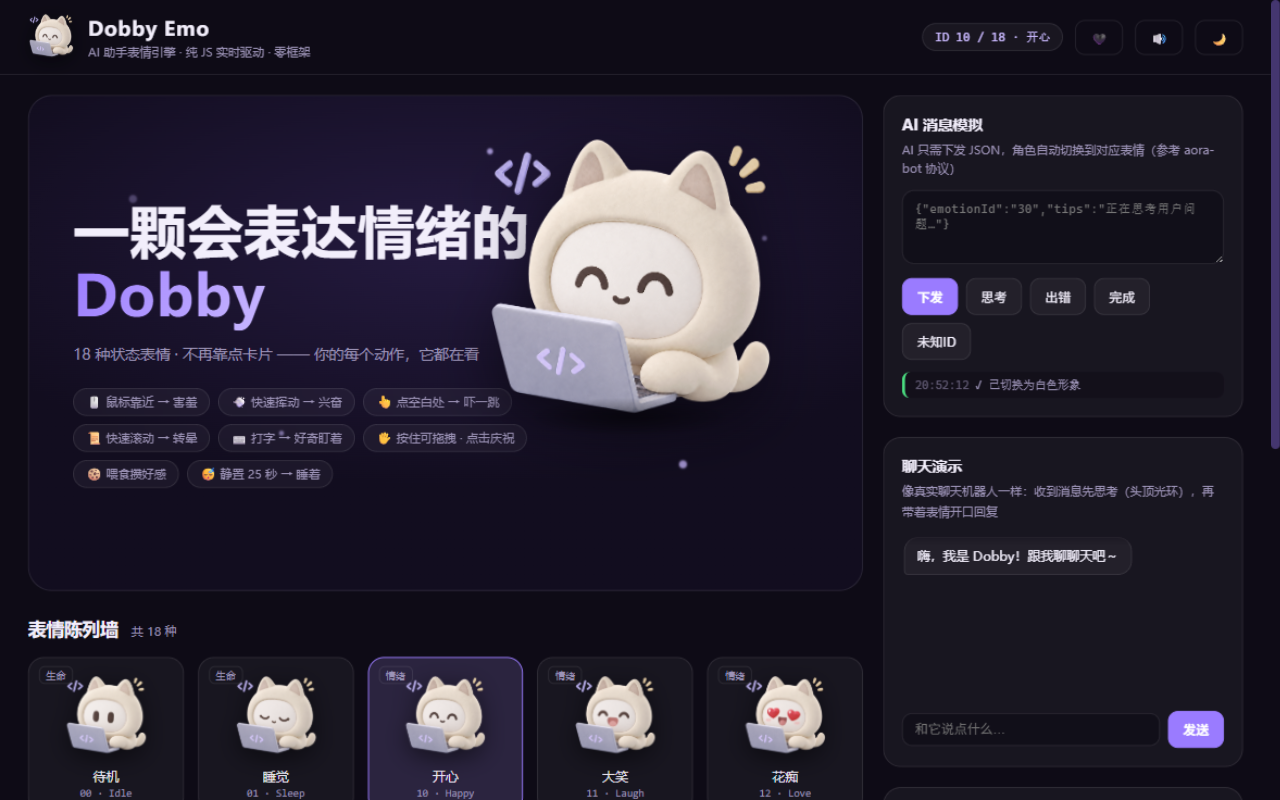
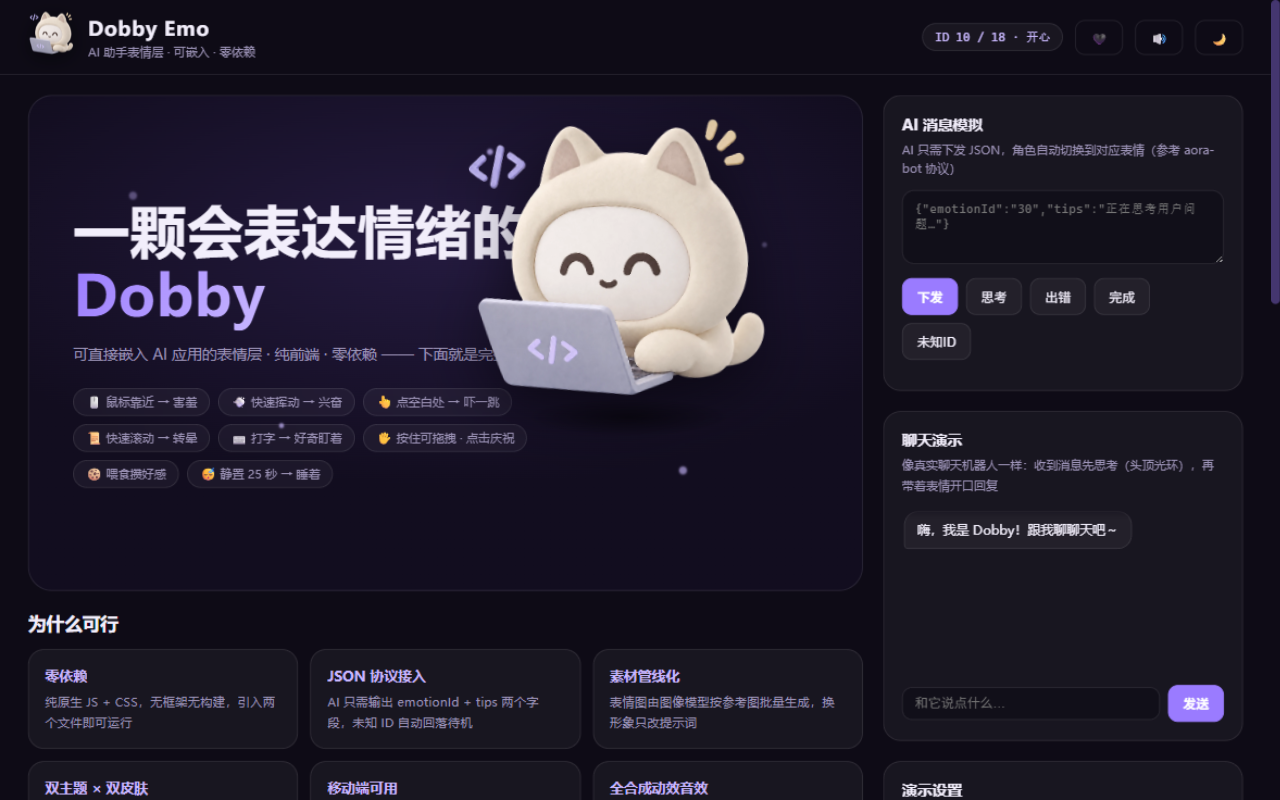
README 全面刷新（WebP/移动端/兼容性/接入示例/目录结构）+ MIT 开源协议（素材单列豁免）+ 更新双皮肤截图

diff --git a/README.md b/README.md
@@ -1,13 +1,15 @@
 # Dobby Emo · 会表达情绪的小助手
 
-一套面向 AI 助手的**桌面宠物级表情引擎**：一只抱着电脑的 3D 小猫 Dobby 悬浮在页面上，18 种状态表情，眼神会追着你的鼠标走，情绪从你的每个动作里"长"出来——而不是靠点卡片换图。
+一套面向 AI 助手的**可嵌入表情层方案**：一只抱着电脑的 3D 小猫 Dobby 悬浮在页面上，18 种状态表情，眼神会追着你的鼠标走，情绪从你的每个动作里"长"出来——而不是靠点卡片换图。纯前端、零依赖、两个文件即可接入，移动端同样可用。
 
 <p align="center">
   <img src="docs/screenshots/dark.png" width="49%" alt="黑色形象">
-  <img src="docs/screenshots/light.png" width="49%" alt="白色形象">
+  <img src="docs/screenshots/light.png" width="49%" alt="白色形象（奶油香草）">
 </p>
 
 > 灵感致谢 [aora-bot](https://github.com/sam70361/aora-bot)（Emotion Ball 表情引擎），本项目在其架构思路上做了形象与交互的重新设计。
+
+**在线演示**：[https://lin-a1.github.io/dobby-emo/](https://lin-a1.github.io/dobby-emo/)
 
 ## ✨ 特性
 
@@ -36,11 +38,11 @@
 - 眨眼带回弹过冲、呼吸缩放、说话时身体小抖动
 - 共享 rAF 心跳，所有动画帧率无关
 
-**其他**
-- 🤖 AI 消息协议：`dobby.handleAIMessage('{"emotionId":"30","tips":"正在思考…"}')`
-- 💬 聊天演示面板：收到消息先思考（头顶光环），再带着表情开口回复
-- 🍪 羁绊好感系统：摸它/陪玩/喂食攒 XP，升级有庆祝彩带（localStorage 持久化）
-- 🔊 WebAudio 合成音效（零素材，可静音）
+**工程化**
+- 📱 移动端适配：触摸拖拽（`touch-action` + 缩放换算）、小屏角色自动缩放驻守、滚动渐进淡出
+- 🪶 素材全 WebP：两套皮肤总体积约 2.3MB（单张约 130KB），首图预加载 + 加载门控（未就绪前不显示半成品状态）
+- 🧩 兼容性：JS 语法控制在 ES2018 级别，CSS 提供 `color-mix` / `mask-image` / `inset` 回退
+- 🔊 WebAudio 合成音效（零素材文件，可静音）
 - 明暗双主题、`prefers-reduced-motion` 降级、响应式布局
 
 ## 🚀 运行
@@ -64,6 +66,8 @@ dobby.handleAIMessage('{"emotionId":"30","tips":"正在思考用户问题…"}')
 // 未知 ID / JSON 解析失败 → 自动回落待机，并触发 onError
 ```
 
+可以接在任意大模型的 Function Calling / 结构化输出后面；页面上的「聊天演示」是完整接法的实时示例。
+
 ## 🎨 表情素材再生成
 
 素材由图像编辑模型（参考图 + 逐表情提示词）批量生成，脚本在 `tools/`：
@@ -74,23 +78,27 @@ bash tools/gen-sw.sh        # 黑色皮肤全套
 bash tools/gen-sw-white2.sh # 奶油香草皮肤全套
 ```
 
-生成结果为带半透明边缘的原图（`assets/*/raw/`），配合浏览器端 alpha 腐蚀去毛边后即为成品。
+流水线：模型出图（透明底 PNG，存至 `assets/*/raw/`）→ 浏览器端 alpha 腐蚀去毛边 → canvas 编码转 WebP → 替换 `assets/sw|sw-white/`。换形象只需换参考图与提示词。
 
 ## 📁 目录结构
 
 ```
-├── index.html            # 入口页
-├── css/style.css         # 主题 / 动效 / 特效层
+├── index.html            # 入口页（演示 + 可行性说明 + 接入示例）
+├── compare.html          # 形象候选对比页（设计过程工具）
+├── css/style.css         # 主题 / 动效 / 特效层 / 移动端适配
 ├── js/
 │   ├── emotions.js       # 表情注册表（ID 分段 + 素材路径 + 特效标记）
 │   ├── dobby.js          # 引擎核心（弹簧物理 / 心跳 / 协议 / 粒子）
 │   ├── main.js           # 行为反应层 + 羁绊 + 聊天演示 + 皮肤
 │   └── eyes.js           # 矢量眼引擎（实验功能，默认未启用）
-├── assets/sw,sw-white/   # 黑 / 白两套表情素材
+├── assets/sw,sw-white/   # 黑 / 白两套表情素材（WebP）
 ├── tools/                # 素材批量生成脚本
-└── docs/                 # 截图
+└── docs/screenshots/     # README 截图
 ```
 
-## 📄 许可
+## 📄 开源许可
 
-引擎与代码仅供学习交流；Dobby 形象素材由 AI 生成，请勿用于商业用途。
+- **代码**（`js/`、`css/`、`index.html` 等）：以 [MIT License](LICENSE) 开源，可自由使用、修改、分发——也欢迎把你的 AI 接进来玩。
+- **形象素材**（`assets/` 目录下的 Dobby 图像）：由 AI 生成，与本仓库代码一同提供用于学习演示，**请勿用于商业用途**；商业使用请先联系作者。
+
+除此之外，本项目的诞生受益于 [aora-bot](https://github.com/sam70361/aora-bot) 的思路启发与开源图像模型，一并致谢。
